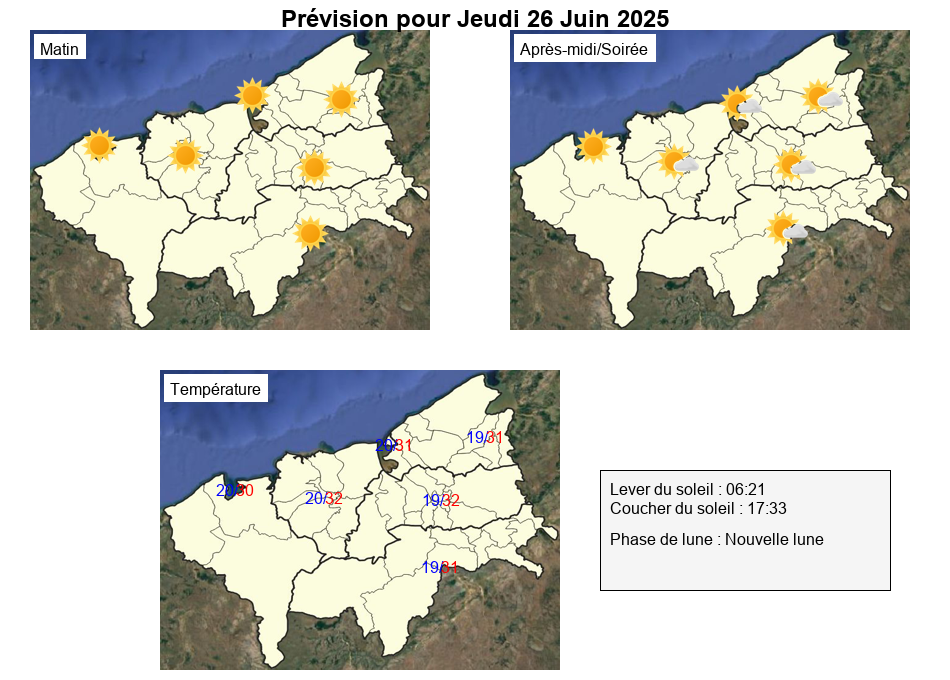
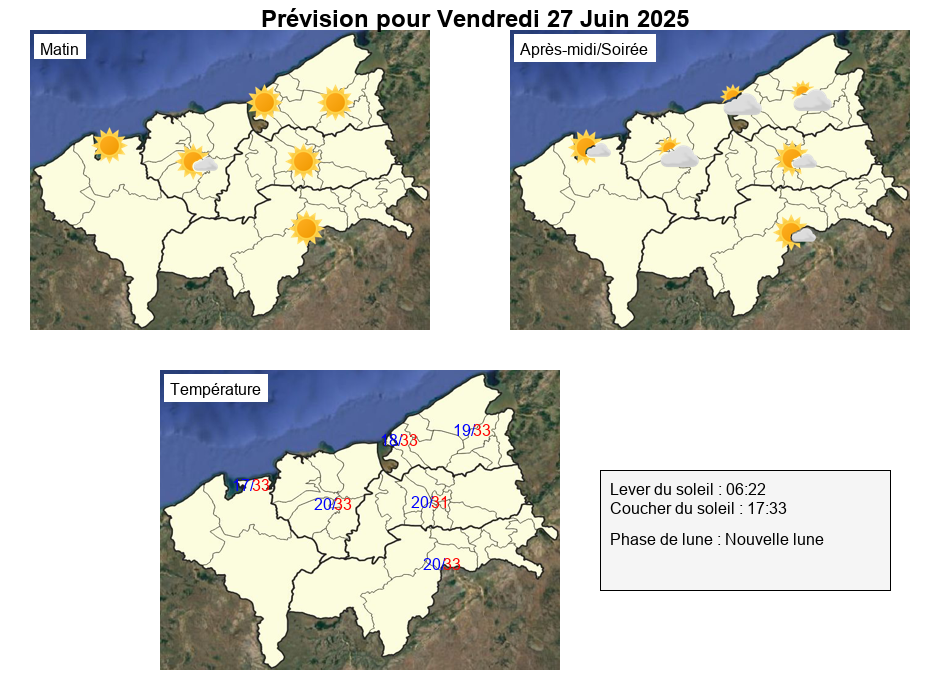
forecast on 26/06/2025
Forecast on 26/06/2025

diff --git a/script.js b/script.js
@@ -3,7 +3,7 @@ const niveauAlerte = "none";       // Options: "none", "blue", "green", "yellow"
 const typeCatastrophe = "cyclone"; // Options: "cyclone", "flood", "rainflood", "forestfire", "lightning", "flood", "stormsurge", "drivingconditions"
 
 const rawMessages = [
-    `**Prévisions journalières pour la Région BOENY, établi le 25/06/2025 à 06:00 AM**
+    `**Prévisions journalières pour la Région BOENY, établi le 26/06/2025 à 06:30 AM**
 	
 	
     ✅ **Aucune vigilance ou alerte en cours pour la Région BOENY**  
@@ -13,20 +13,20 @@ const rawMessages = [
     `**Prévisions – Jour 1 (Aujourd’hui)**  
     Temps ensoleillé toute la matinée et peu nuageux l'après-midi et le soir.
     **Vents** : Vents modéré à fort de secteur ESE
-    **Températures minimales** : entre 20 et 21 °C
-    **Températures maximales** : entre 30 et 33 °C.`,
+    **Températures minimales** : entre 16 et 20 °C
+    **Températures maximales** : entre 31 et 33 °C.`,
 
     `**Prévisions – Jour 2 (Demain)**  
     Temps ensoleillé le matin, devenant partiellement nuageux l'après-midi et le soir.
-    **Vents** : Vents modéré du secteur ESE
-    **Températures minimales** : entre 19 et 20 °C
-    **Températures maximales** : entre 30 et 33 °C.`,
+    **Vents** : Vents modéré à fort du secteur SE
+    **Températures minimales** : entre 17 et 20 °C
+    **Températures maximales** : entre 31 et 33 °C.`,
 
     `**Prévisions – Jour 3 (Après-demain)**  
-    Temps ensoleillé le matin, partielement nuageux l'après-midi et le soir dans les parties Est de la Région.
+    Temps ensoleillé le matin, partiellement nuageux l'après-midi et le soir.
     **Vents** : Vents modéré de secteur ESE
-    **Températures minimales** : entre 20 et 22 °C
-    **Températures maximales** : entre 32 et 33 °C.`
+    **Températures minimales** : entre 20 et 21 °C
+    **Températures maximales** : entre 33 et 34 °C.`
 ];
 
 // Fonction pour mettre en gras HTML et majuscule le texte entre ** ** 
